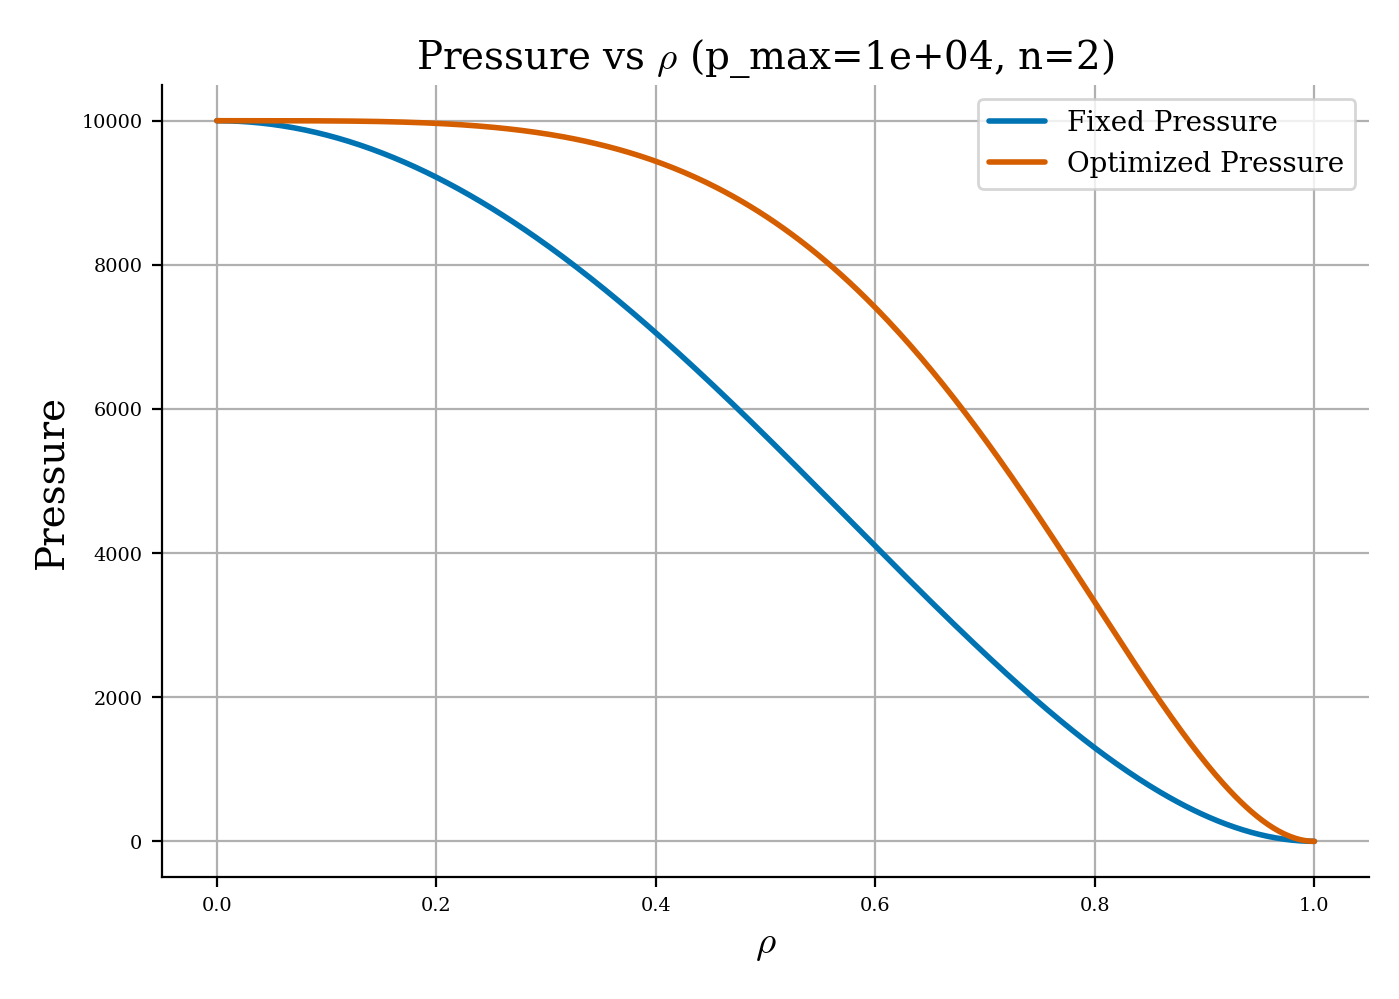
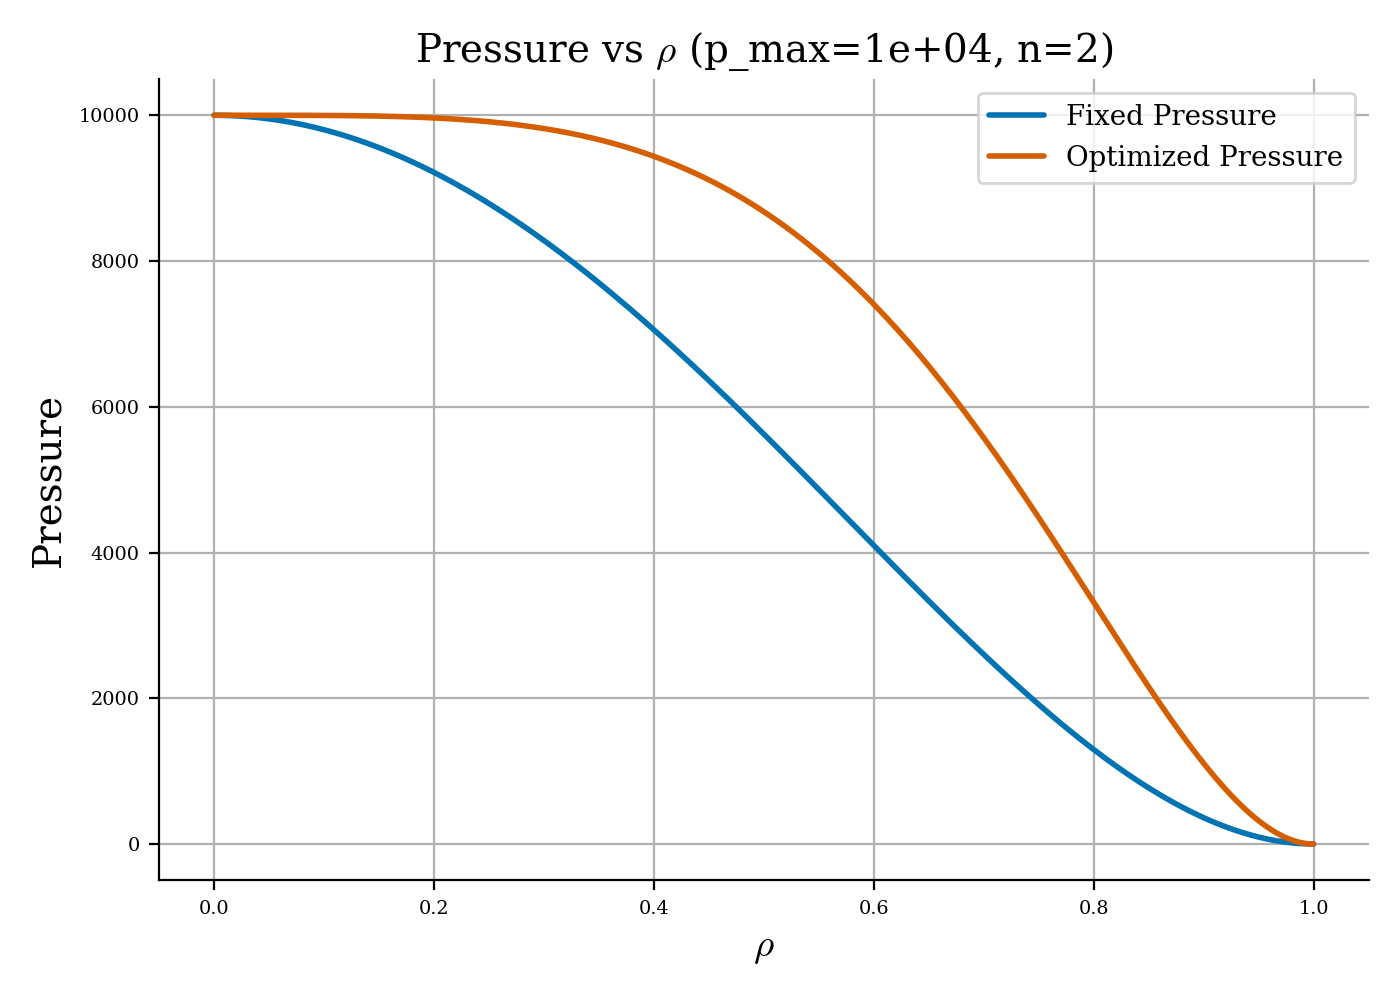
tweaking

diff --git a/Scratch/Runs/logistic/driver.py b/Scratch/Runs/logistic/driver.py
@@ -112,22 +112,18 @@ def comparison(p_maxima, k_ranges, rho_ranges, weights_inits):
                         out_dir=out_dir)
 
                     # Running fixed and optimized pressure optimizations:
-                    eq_opt_FXD, opt_result_FXD = run_optimization(
-                        p_axis, out_dir=out_dir, fix_pressure=True
-                    )
-                    eq_opt, opt_result = run_optimization(
-                        p_axis, out_dir=out_dir, fix_pressure=False
-                    )
-                    #-----------------------------------------------
+                    eq_opt_FXD, opt_result_FXD = run_optimization(out_dir=out_dir, fix_pressure=True)
+                    eq_opt, opt_result = run_optimization(out_dir=out_dir, fix_pressure=False)
+                    #-------------------------------------------------------------------------
 
 
                     #------------------------------------
                     # Generating comparison table labels:
                     group_label = (
-                        f'p_axis = {p_axis}\n,', 
-                        f'k_range = {k_range}\n,',
-                        f'rho_range = {rho_range}\n,',
-                        f'weights = {weights},'
+                        f"p_axis = {p_axis}\n"
+                        f"k_range = {k_range}\n"
+                        f"rho_range = {rho_range}\n"
+                        f"weights = {weights}"
                     )
                     rows.append((group_label, "Fixed Pressure"))
                     rows.append((group_label, "Optimized Pressure"))

diff --git a/Scratch/Profiles/logistic.py b/Scratch/Profiles/logistic.py
@@ -71,10 +71,11 @@ class LogisticProfile(_Profile):
         if any(x is None for x in (p_axis, k_range, rho_range, weights)):
             print(
                 "Default LogisticProfile settings:\n"
-                f"  p_axis   = {p_axis_default}\n"
-                f"  k_range  = {k_range_default}\n"
-                f"  rho_range = {rho_range_default}\n"
-                f'  weights = {weights_default}'
+                f" p_axis   = {p_axis_default}\n"
+                f" k_range  = {k_range_default}\n"
+                f" rho_range = {rho_range_default}\n"
+                f' weights = {weights_default}\n'
+                f' rho_grid = {rho_grid_default}'
             )
         #---------------------------------------
 

diff --git a/Scratch/Runs/poly/opt.py b/Scratch/Runs/poly/opt.py
@@ -91,6 +91,7 @@ def run_optimization(p_scale, out_dir, fix_pressure: bool):
         )
         # Compiling constraints:
         constraints = (
+            ForceBalance(eq=eq_0),
             FixIota(eq=eq_0),
             FixPsi(eq=eq_0),
             pressure_axis_set,

diff --git a/Scratch/Runs/poly/driver.py b/Scratch/Runs/poly/driver.py
@@ -214,4 +214,4 @@ def comparison(p_maxima: list, n_set: list):
 
 
 #-------- RUNNING IT --------
-comparison([1e4], [2,3,4,5,6,7,8])
+comparison([1e4], [2])
